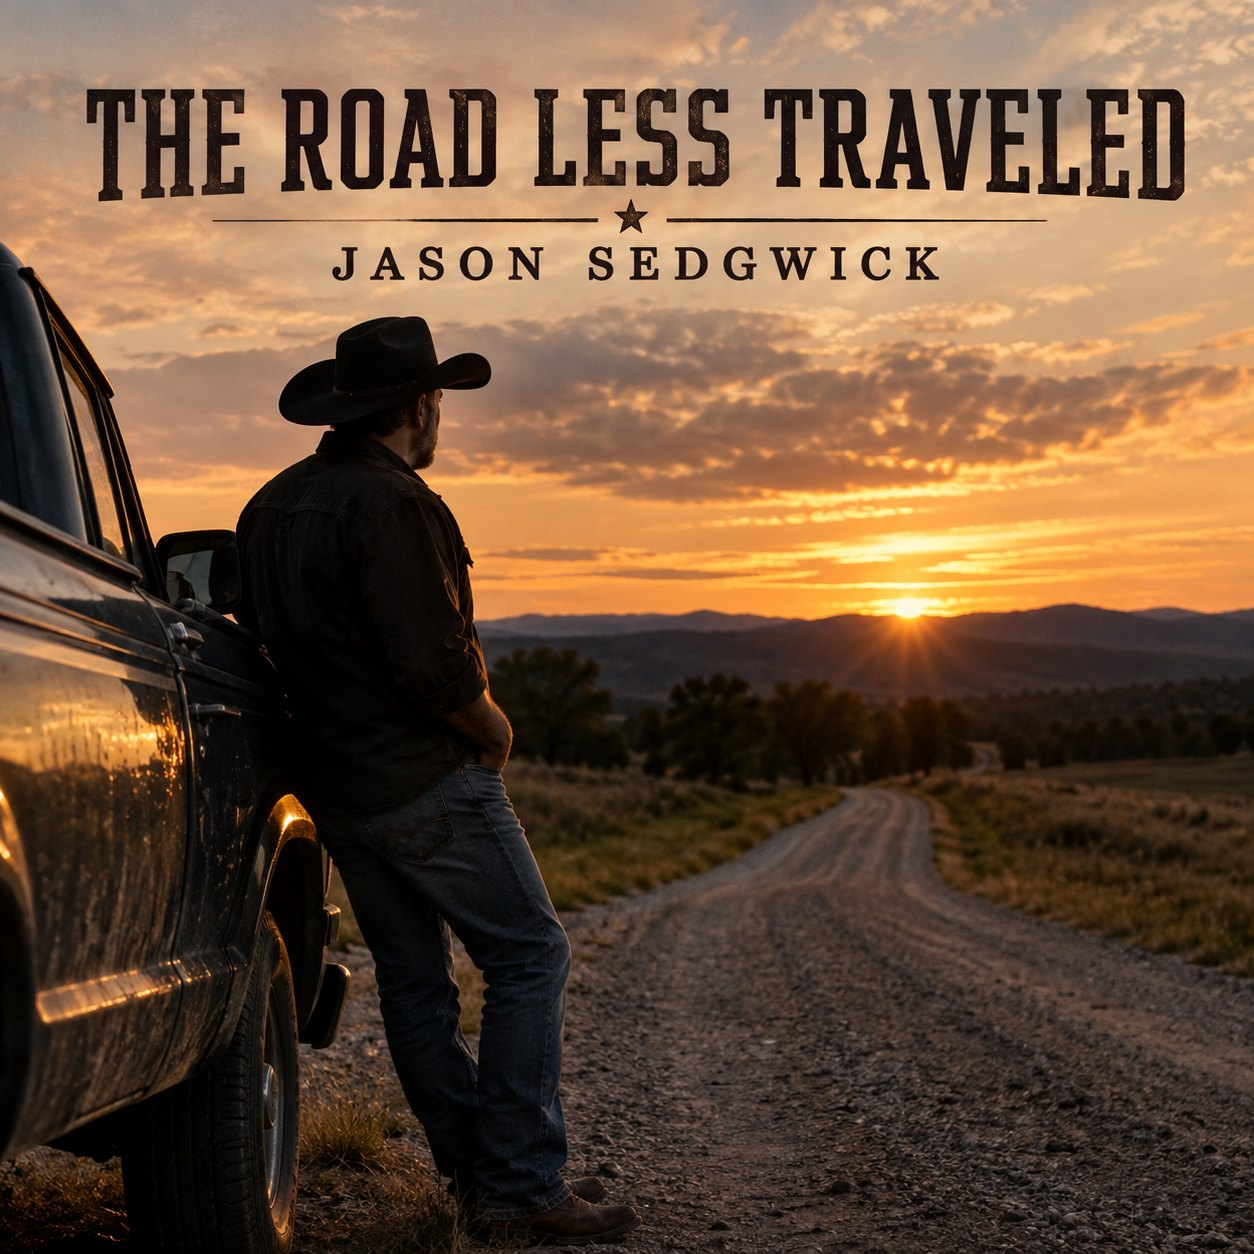
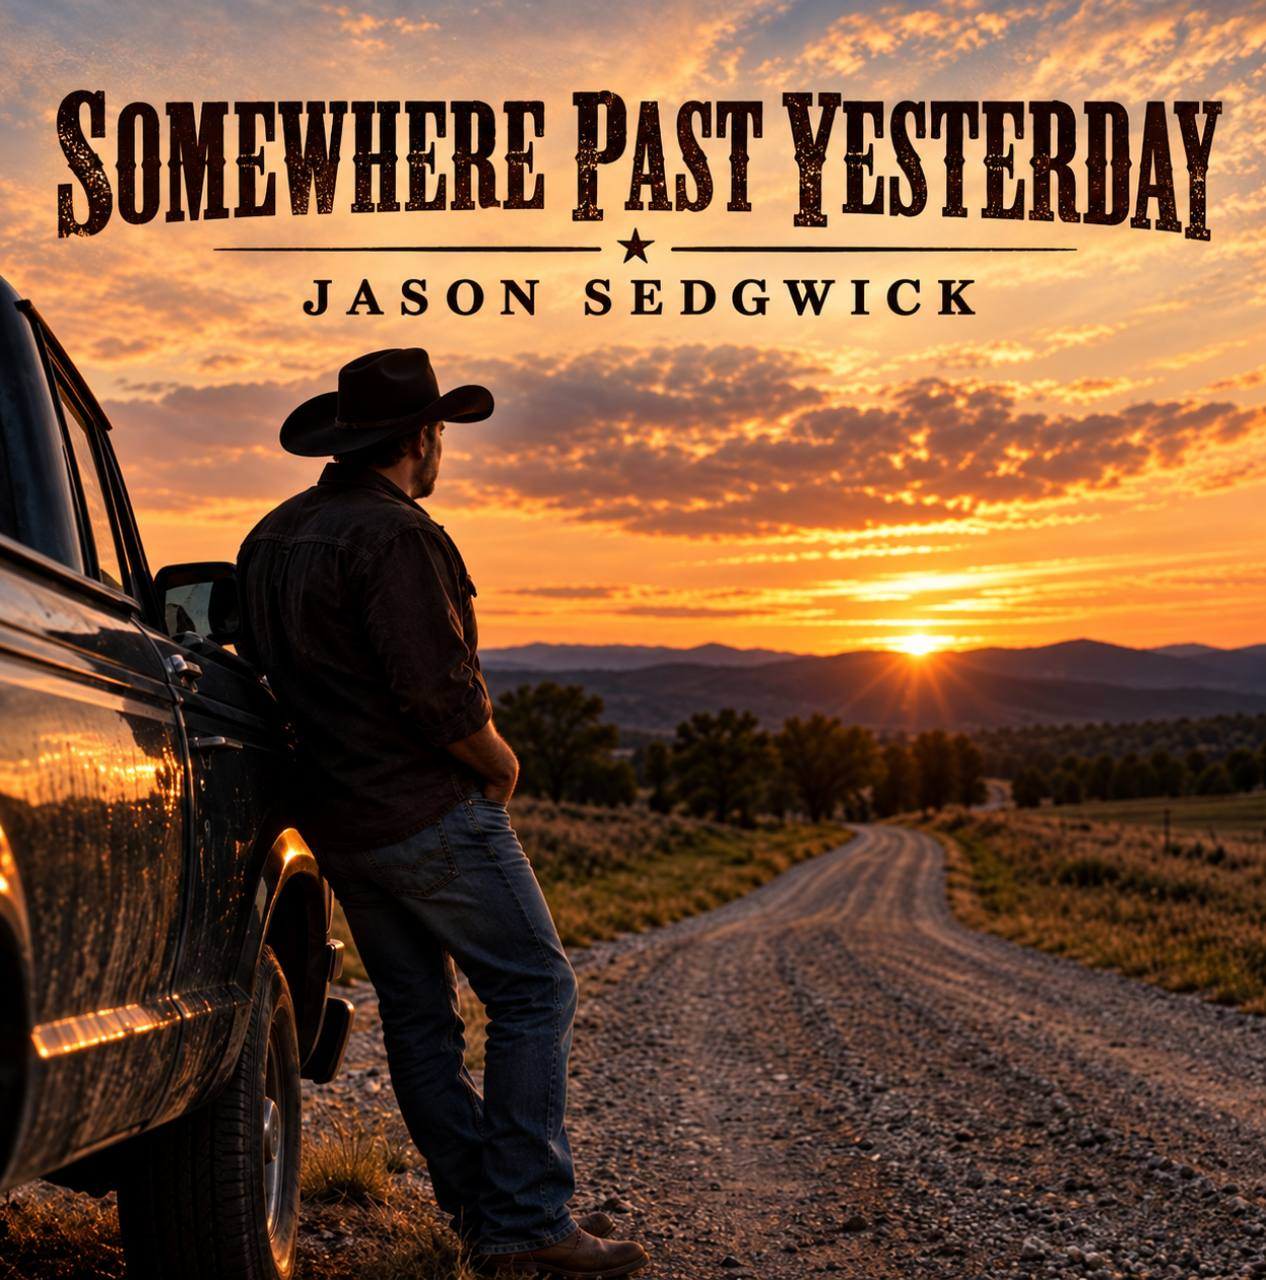
Update Somewhere Past Yesterday album artwork

diff --git a/index.html b/index.html
@@ -23,10 +23,10 @@
 <article class="music-card"><div class="art"><img src="assets/Borrowed Time_ Sunset Country Poster.png" alt="Borrowed Time promotional artwork" loading="lazy"><span class="status">UPCOMING SINGLE</span></div><div class="music-card-copy"><p class="type">UPCOMING RELEASE</p><h3>Borrowed Time</h3><p>A heartfelt reminder to hold close the people and moments that matter.</p><div class="song-like"><button class="like-button" type="button" data-song="borrowed-time" aria-pressed="false" aria-label="Like this song"><span class="like-heart" aria-hidden="true">♡</span><span class="like-label">Like this song</span></button><span class="like-feedback" role="status" aria-live="polite"></span></div></div></article>
 <article class="music-card"><div class="art"><img src="assets/aint-done.jpg" alt="I Ain't Done Yet cover concept with Jason by a truck" loading="lazy"><span class="status">IN DEVELOPMENT</span></div><div class="music-card-copy"><p class="type">IN DEVELOPMENT</p><h3>I Ain't Done Yet</h3><p>An anthem about starting over and refusing to give up.</p><div class="song-like"><button class="like-button" type="button" data-song="aint-done" aria-pressed="false" aria-label="Like this song"><span class="like-heart" aria-hidden="true">♡</span><span class="like-label">Like this song</span></button><span class="like-feedback" role="status" aria-live="polite"></span></div></div></article>
 <article class="music-card"><div class="art"><img src="assets/get-a-dog.jpg" alt="If You're Feeling Lonely, Get a Dog cover concept featuring Reilly Rose" loading="lazy"><span class="status">IN DEVELOPMENT</span></div><div class="music-card-copy"><p class="type">IN DEVELOPMENT</p><h3>If You're Feeling Lonely, Get a Dog</h3><p>A little humor, a lot of heart—and Reilly Rose.</p><div class="song-like"><button class="like-button" type="button" data-song="get-a-dog" aria-pressed="false" aria-label="Like this song"><span class="like-heart" aria-hidden="true">♡</span><span class="like-label">Like this song</span></button><span class="like-feedback" role="status" aria-live="polite"></span></div></div></article>
-<article class="music-card"><div class="art"><img src="assets/album-road.jpg" alt="Country road artwork featuring a cowboy beside a truck at sunset" loading="lazy"><span class="status">IN DEVELOPMENT</span></div><div class="music-card-copy"><p class="type">ALBUM TITLE TRACK</p><h3>Somewhere Past Yesterday</h3><p>A reflective song about the memories that shaped us and the hope of what still lies ahead.</p><div class="song-like"><button class="like-button" type="button" data-song="road-less-traveled" aria-pressed="false" aria-label="Like this song"><span class="like-heart" aria-hidden="true">♡</span><span class="like-label">Like this song</span></button><span class="like-feedback" role="status" aria-live="polite"></span></div></div></article>
+<article class="music-card"><div class="art"><img src="assets/album-road.jpg" alt="Somewhere Past Yesterday cover by Jason Sedgwick, featuring a cowboy beside a truck on a country road at sunset" loading="lazy"><span class="status">IN DEVELOPMENT</span></div><div class="music-card-copy"><p class="type">ALBUM TITLE TRACK</p><h3>Somewhere Past Yesterday</h3><p>A reflective song about the memories that shaped us and the hope of what still lies ahead.</p><div class="song-like"><button class="like-button" type="button" data-song="road-less-traveled" aria-pressed="false" aria-label="Like this song"><span class="like-heart" aria-hidden="true">♡</span><span class="like-label">Like this song</span></button><span class="like-feedback" role="status" aria-live="polite"></span></div></div></article>
 <article class="music-card"><div class="art"><img src="assets/never-left.jpg" alt="The Ones That Never Left cover concept featuring a porch at sunset" loading="lazy"><span class="status">IN DEVELOPMENT</span></div><div class="music-card-copy"><p class="type">IN DEVELOPMENT</p><h3>The Ones That Never Left</h3><p>For the people who stood by us when life got difficult.</p><div class="song-like"><button class="like-button" type="button" data-song="never-left" aria-pressed="false" aria-label="Like this song"><span class="like-heart" aria-hidden="true">♡</span><span class="like-label">Like this song</span></button><span class="like-feedback" role="status" aria-live="polite"></span></div></div></article>
 </div><p class="footnote">Artwork for upcoming songs is conceptual and may change before release.</p></div></section>
-<section id="album" class="section album"><div class="wrap album-layout"><div class="album-art"><img src="assets/album-road.jpg" alt="Temporary album artwork featuring a cowboy looking down a rural road at sunset" loading="lazy"></div><div class="album-copy"><p class="kicker">THE DEBUT ALBUM · PLANNED FOR 2027</p><h2>SOMEWHERE PAST<br><span>YESTERDAY</span></h2><p class="album-intro">The memories stay with us, but the story isn't over.</p><p>A collection of original country songs about resilience, time, loyalty, heartbreak, humor, and the courage to begin again.</p><h3>Planned songs</h3><ol class="tracklist"><li>Wrong Side of the Tracks</li><li>Borrowed Time</li><li>Country Just Ain't Country Anymore</li><li>I Ain't Done Yet</li><li>If You're Feeling Lonely, Get a Dog</li><li>The Ones That Never Left</li><li>Somewhere Past Yesterday</li><li>Footprints</li><li>Somewhere Between Never and Forever</li></ol><p class="album-note">Track order and final album lineup to be announced.</p></div></div></section>
+<section id="album" class="section album"><div class="wrap album-layout"><div class="album-art"><img src="assets/album-road.jpg" alt="Somewhere Past Yesterday cover by Jason Sedgwick, featuring a cowboy beside a truck on a country road at sunset" loading="lazy"></div><div class="album-copy"><p class="kicker">THE DEBUT ALBUM · PLANNED FOR 2027</p><h2>SOMEWHERE PAST<br><span>YESTERDAY</span></h2><p class="album-intro">The memories stay with us, but the story isn't over.</p><p>A collection of original country songs about resilience, time, loyalty, heartbreak, humor, and the courage to begin again.</p><h3>Planned songs</h3><ol class="tracklist"><li>Wrong Side of the Tracks</li><li>Borrowed Time</li><li>Country Just Ain't Country Anymore</li><li>I Ain't Done Yet</li><li>If You're Feeling Lonely, Get a Dog</li><li>The Ones That Never Left</li><li>Somewhere Past Yesterday</li><li>Footprints</li><li>Somewhere Between Never and Forever</li></ol><p class="album-note">Track order and final album lineup to be announced.</p></div></div></section>
 <section id="about" class="section about"><div class="wrap about-layout"><div class="about-photos"><img class="about-main" src="assets/artist-plaid.jpg" alt="Jason Sedgwick in a plaid shirt outdoors" loading="lazy"><img class="about-inset" src="assets/artist-hat.jpg" alt="Jason Sedgwick wearing a black cowboy hat" loading="lazy"></div><div class="about-copy"><p class="kicker">BEHIND THE MUSIC</p><h2>Meet Jason</h2><p class="lead">A songwriter finding his way back to the music he loves.</p><p>Jason Sedgwick writes country music rooted in real life: the wrong turns, fresh starts, lasting friendships, and small moments that mean everything.</p><p>After years away from singing, Jason returned to writing and recording original songs, drawing inspiration from classic country storytelling and his own life experiences.</p><p>His debut album project, <em>Somewhere Past Yesterday</em>, brings those stories together—one song at a time.</p><p>Dogs have always held a special place in Jason’s heart. His girl, Reilly Rose, came into his life after her previous owner, who had cared for her for nine months, was no longer able to keep her. Five years later, Reilly Rose remains a cherished companion and a reminder of the difference a loving home can make.</p><div class="signature">JASON SEDGWICK <span>✦</span></div></div></div></section>
 <section id="giving-back" class="section giving-back"><div class="wrap giving-layout"><div class="giving-image"><img src="assets/get-a-dog.jpg" alt="Jason and Reilly Rose together in the artwork for If You’re Feeling Lonely, Get a Dog" loading="lazy"></div><div class="giving-copy"><p class="kicker">MUSIC WITH A PURPOSE</p><h2>Giving Back to the Dogs Who Need Us</h2><p class="lead">A love of dogs. A second chance. A mission in the making.</p><p>Reilly Rose became part of Jason’s life when her previous owner could no longer care for her after nine months. Jason has now shared five years with his girl, and that bond is part of what inspires his commitment to helping dogs find safety, care, and loving homes.</p><p>Jason is currently working to establish <strong>K9 Innovative Solutions (K9IS)</strong> as a future nonprofit organization. The vision is to create a free, technology-driven platform that helps connect rescues and shelters with potential adopters, foster families, volunteers, transporters, and supporters. The goal is to improve coordination, expand visibility for dogs in need, and support better rescue outcomes.</p><p><strong>A portion of any music royalties Jason receives will be donated to support K9 Innovative Solutions as the organization develops.</strong> The nonprofit is still in the process of being established; this is a commitment for future royalties, not a claim that K9IS already has tax-exempt status.</p><a class="btn primary" href="https://k9is.netlify.app/" target="_blank" rel="noopener noreferrer">Learn about K9 Innovative Solutions ↗</a></div></div></section>
 <section id="merch" class="section merch"><div class="wrap merch-layout"><div class="merch-copy"><p class="kicker">WEAR THE JOURNEY</p><h2>SHOP <span>MERCH</span></h2><p class="merch-lead">Stories worth wearing.</p><p>Inspired by the winding roads, hard-earned lessons, second chances, and faith that shape the music. A small collection of country-inspired apparel is on the way.</p><p>Our first designs are taking shape, including the sunset-road hoodie and a <strong>Footprints-inspired</strong> collection.</p><div class="merch-coming" role="status"><span class="merch-dot" aria-hidden="true"></span> COMING SOON · EST. 2026</div><p class="merch-note">The online store is being prepared. Shopping links and product details will appear here when the collection launches.</p></div><div class="merch-display" aria-label="Preview of the clothing line's country-inspired design direction"><div class="merch-display-inner"><span class="merch-display-overline">THE ROAD AHEAD</span><div class="merch-road-art" aria-hidden="true"><span class="merch-sun"></span><span class="merch-horizon"></span><span class="merch-trail"></span></div><span class="merch-display-title">THE JOURNEY<br>CONTINUES.</span><span class="merch-display-sub">COUNTRY ROOTS · SECOND CHANCES</span></div><span class="merch-display-caption">COLLECTION PREVIEW · CONCEPT ART</span></div></div></section>
